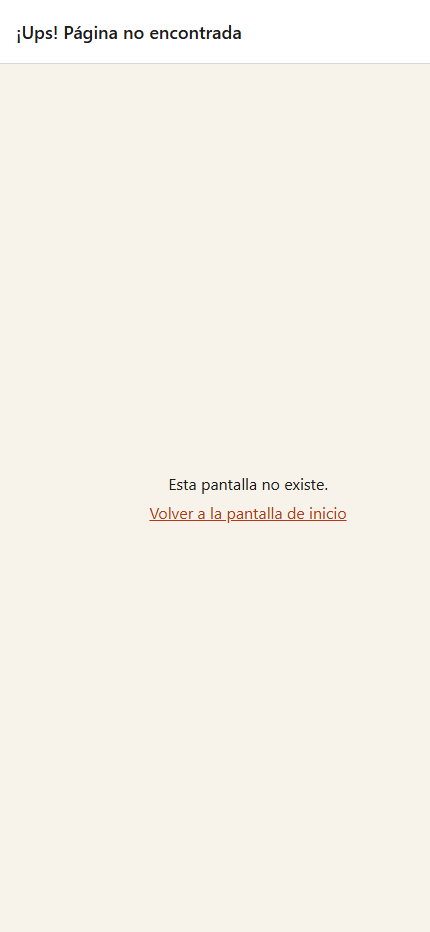
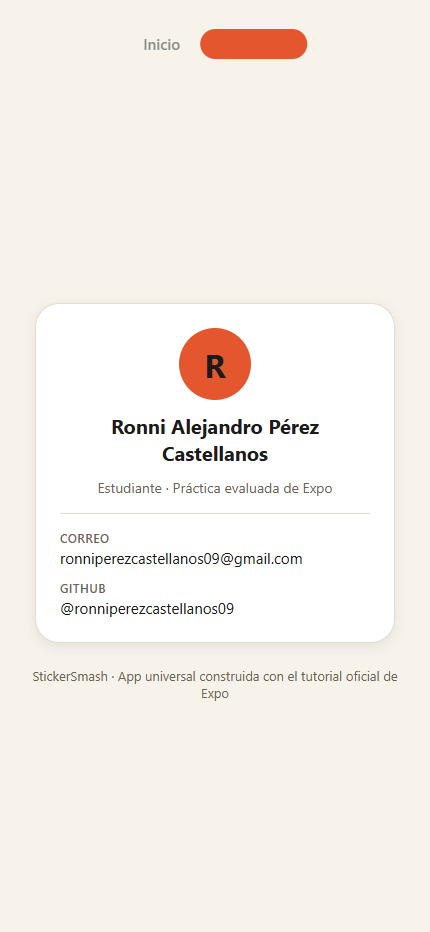
Documentación: README con recorrido del tutorial, evidencia de capturas y dificultades resueltas

diff --git a/README.md b/README.md
@@ -1,56 +1,114 @@
-# Welcome to your Expo app 👋
+# StickerSmash 📸✨
 
-This is an [Expo](https://expo.dev) project created with [`create-expo-app`](https://www.npmjs.com/package/create-expo-app).
+App multiplataforma (Android, iOS y web) construida con **Expo SDK 58**, **Expo Router**, **TypeScript estricto** y componentes nativos de **Expo UI**, siguiendo el [tutorial oficial de Expo](https://docs.expo.dev/tutorial/introduction/) (8 capítulos) y con una identidad visual propia: **«Papel y tinta»** — papel cálido de fondo, tinta casi negra y un vermellón de escritura como acento.
 
-## Get started
+## Estudiante
 
-1. Install dependencies
+| | |
+|---|---|
+| **Nombre** | Ronni Alejandro Pérez Castellanos |
+| **Correo** | ronniperezcastellanos09@gmail.com |
+| **GitHub** | [@ronniperezcastellanos09](https://github.com/ronniperezcastellanos09) |
 
-   ```bash
-   npm install
-   ```
+## Evidencia (export web estático)
 
-2. Start the app
+Capturas tomadas con Edge headless (Chrome DevTools Protocol) sobre el resultado de `npx expo export --platform web`, a 430×932.
 
-   ```bash
-   npx expo start
-   ```
+| Pantalla Inicio | Pantalla Acerca de |
+|:---:|:---:|
+| ![Pantalla Inicio](docs/screenshots/inicio.png) | ![Pantalla Acerca de](docs/screenshots/acerca-de.png) |
 
-In the output, you'll find options to open the app in a
+## Recorrido del tutorial (un commit por capítulo)
 
-- [development build](https://docs.expo.dev/develop/development-builds/introduction/)
-- [Android emulator](https://docs.expo.dev/workflow/android-studio-emulator/)
-- [iOS simulator](https://docs.expo.dev/workflow/ios-simulator/)
-- [Expo Go](https://expo.dev/go), a limited sandbox for trying out app development with Expo
+| Capítulo | Commit | Contenido |
+|:---:|:---:|---|
+| 1. Creación del proyecto | `5f0c6a3` | `npx create-expo-app@latest` con plantilla TypeScript + Expo Router (`src/app`), configuración de rutas con `@/*`. |
+| 2. Navegación | `25b955b` | Dos pantallas con pestañas nativas (`NativeTabs` de `expo-router/native-tabs`): **Inicio** y **Acerca de**, más pantalla «no encontrada». |
+| 3. Diseño de pantallas | `b683361` | Vista principal con Flexbox: `ImageViewer` (320×440), botones por plataforma (`button.tsx` / `.android` / `.ios` con `@expo/ui`), tarjeta de estudiante en «Acerca de» y tokens de tema en `src/constants/theme.ts`. |
+| 4. Selector de imágenes | `dbe3d9d` | `expo-image-picker` con `allowsEditing` para elegir una foto de la galería o de la web. |
+| 5. Modal | `6b585fc` | `BottomSheet` de `@expo/ui` con selector de 6 stickers propios (3 columnas), botón circular «añadir» y fila de opciones (reiniciar / guardar). |
+| 6. Gestos | `6cf5ba2` | Stickers arrastrables y con doble toque para escalar (2×), usando los hooks de React Native Gesture Handler v3 y Reanimated, con `clamp` para que el sticker no salga de la imagen. |
+| 7. Captura de pantalla | `0f21cbf` | `react-native-view-shot` + `expo-media-library`: en nativo se guarda en la galería (con permiso `writeOnly`), en web se descarga como JPEG vía `data-uri`. |
+| 8. Configuración | `392d7f6` | Barra de estado clara, splash screen en papel `#F7F3EA` e icono adaptativo de Android con fondo de tinta. |
+| Corrección | `401bb5a` | Se eliminó `src/app/index.tsx` (plantilla) que colisionaba con `(tabs)/index.tsx` por la ruta `/`. |
 
-You can start developing by editing the files inside the **src/app** directory. This project uses [file-based routing](https://docs.expo.dev/router/introduction).
+## Funcionalidades
 
-## Get a fresh project
+- **Pestañas nativas** Inicio / Acerca de, con iconos y colores de la identidad.
+- **Elegir foto** desde la galería del dispositivo o del equipo, con recorte (`allowsEditing`).
+- **Usar esta foto** sin pasar por el selector.
+- **Añadir stickers** de emoji desde un *bottom sheet*; los stickers son PNG propios (círculo de papel con sombra vermellona desplazada y rasgos de tinta).
+- **Arrastrar** el sticker y **doble toque** para escalarlo, limitados al área de la imagen.
+- **Guardar** la composición: galería de fotos en Android/iOS, descarga del navegador en web.
+- Interfaz íntegramente en **español** y contrastes que cumplen WCAG AA.
 
-When you're ready, run:
+## Identidad visual «Papel y tinta»
+
+Todos los colores se definen una sola vez en [`src/constants/theme.ts`](src/constants/theme.ts) y se usan en toda la app:
+
+| Token | Valor | Uso |
+|---|---|---|
+| `background` | `#F7F3EA` | Papel cálido de fondo (incluido splash e icono adaptativo) |
+| `ink` | `#1C1B1A` | Texto e iconos (≈15:1 sobre papel) |
+| `muted` | `#6B6455` | Texto secundario (≈5.3:1) |
+| `accent` | `#E4572E` | Botón primario, monograma, pestaña activa |
+| `accentText` | `#B03A17` | Enlaces sobre papel (≈5.5:1) |
+| `onAccent` | `#1C1B1A` | Contenido sobre el acento |
+| `surface` / `border` | `#FFFFFF` / `#E3DCCF` | Tarjetas y bordes |
+
+## Cómo ejecutar
 
 ```bash
-npm run reset-project
+# 1. Instalar dependencias
+npm install
+
+# 2. Iniciar el servidor de desarrollo (abre Android, iOS o web)
+npx expo start
 ```
 
-This command will move the starter code to the **example** directory and create a blank **src/app** directory where you can start developing.
+En el terminal de `expo start` puedes pulsar `a` (emulador Android), `i` (simulador iOS), `w` (navegador) o escanear el QR con Expo Go.
 
-### Other setup steps
+## Verificación
 
-- To set up ESLint for linting, run `npx expo lint`, or follow our guide on ["Using ESLint and Prettier"](https://docs.expo.dev/guides/using-eslint/)
-- If you'd like to set up unit testing, follow our guide on ["Unit Testing with Jest"](https://docs.expo.dev/develop/unit-testing/)
-- Learn more about the TypeScript setup in this template in our guide on ["Using TypeScript"](https://docs.expo.dev/guides/typescript/)
+```bash
+# TypeScript estricto, sin errores
+npx tsc --noEmit
 
-## Learn more
+# Export estático de la web (6 rutas)
+npx expo export --platform web
+```
 
-To learn more about developing your project with Expo, look at the following resources:
+## Estructura del proyecto
 
-- [Expo documentation](https://docs.expo.dev/): Learn fundamentals, or go into advanced topics with our [guides](https://docs.expo.dev/guides).
-- [Learn Expo tutorial](https://docs.expo.dev/tutorial/introduction/): Follow a step-by-step tutorial where you'll create a project that runs on Android, iOS, and the web.
+```
+src/
+├── app/
+│   ├── _layout.tsx            # Stack raíz + GestureHandlerRootView + StatusBar
+│   ├── +not-found.tsx         # Ruta no encontrada
+│   └── (tabs)/
+│       ├── _layout.tsx        # NativeTabs Inicio / Acerca de
+│       ├── index.tsx          # Pantalla principal (capítulos 3–7)
+│       └── about.tsx          # Tarjeta de estudiante
+├── components/
+│   ├── button.tsx / .android.tsx / .ios.tsx
+│   ├── circle-button.tsx / .android.tsx / .ios.tsx
+│   ├── icon-button.tsx / .android.tsx / .ios.tsx
+│   ├── emoji-picker.tsx       # BottomSheet de @expo/ui
+│   ├── emoji-list.tsx         # FlatList de 6 stickers (3 columnas)
+│   ├── emoji-sticker.tsx      # Sticker con gestos y animación
+│   └── image-viewer.tsx       # expo-image con placeholder/selección
+└── constants/
+    └── theme.ts               # Tokens de color «Papel y tinta»
+```
 
-## Join the community
+## Dificultades encontradas y soluciones
 
-Join our community of developers creating universal apps.
+1. **`npm install` colgado y `node_modules` corrupto.** Una instalación en segundo plano quedó estancada y dejó 36 entradas sin `version` en `package-lock.json`, carpetas de paquetes vacías y TTF sin extraer (fallaba con `Invalid Version:` y el export no resolvía `MaterialSymbols_400Regular.ttf`). Se diagnosticó con Arborist/`loadActual`, se depuraron quirúrgicamente las entradas del lockfile y se reparó todo con `npm ci` (613 paquetes).
+2. **Colisión de rutas en la web.** El export estático mostraba «Edit src/app/index.tsx» en `/` porque la pantalla plantilla `src/app/index.tsx` competía con `src/app/(tabs)/index.tsx`. Se eliminó el archivo sobrante, se limpiaron `dist/` y `.expo/` y se re-exportó.
+3. **Capturas headless en blanco.** El modo `--screenshot` de Edge headless capturaba antes de que React hidratara la página. Se resolvió con un script propio basado en Chrome DevTools Protocol que espera a `Page.loadEventFired` + un margen de pintado antes de capturar, y con un servidor estático que reescribe `/about` → `about.html`.
+4. **Stickers propios.** En lugar de reutilizar los assets del tutorial se generaron 6 PNG (200×200) con Pillow, siguiendo la identidad: círculo de papel, sombra vermellona desplazada y rasgos de tinta, con supermuestreo 4× para bordes suaves.
 
-- [Expo on GitHub](https://github.com/expo/expo): View our open source platform and contribute.
-- [Discord community](https://chat.expo.dev): Chat with Expo users and ask questions.
+## Recursos
+
+- [Tutorial oficial de Expo](https://docs.expo.dev/tutorial/introduction/)
+- [Expo Router](https://docs.expo.dev/router/introduction/) · [Expo UI](https://docs.expo.dev/develop/ui/) · [Expo Image Picker](https://docs.expo.dev/develop/image-picker/) · [Gesture Handler](https://docs.expo.dev/develop/gestures/)
